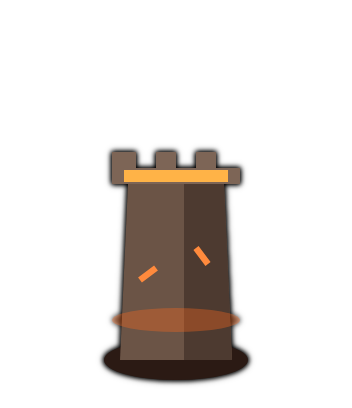
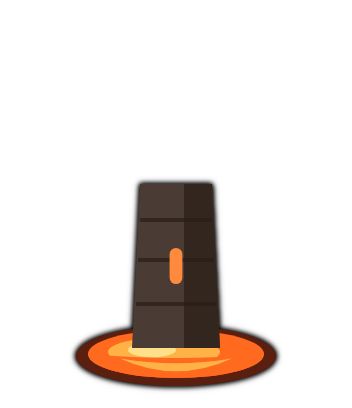
Lavaturm: Turm im Lavasee mit Lava-Zinnen (26s)
Claude-Session: https://claude.ai/code/session_012Nsno37nEjc4wateER8C5H

Changed region(s): [[0.1875, 0.3529, 0.8125, 0.9706]]

diff --git a/tools/turm/tuerme.html b/tools/turm/tuerme.html
@@ -46,7 +46,7 @@ f:[
 ['Flammenwerfer','Schaden','Düse mit Feuerstrahl, Tank auf dem Rücken',28,40,()=>`<ellipse cx="0" cy="-1.5" rx="15" ry="4" fill="#2a2218" opacity=".4"/><rect x="-13" y="-4" width="27" height="4" rx="1.5" fill="#5e5953"/><rect x="-12" y="-22" width="12" height="19" rx="5" fill="#a83232"/><rect x="-12" y="-22" width="12" height="4" rx="2" fill="#c94545"/><rect x="-12" y="-14" width="12" height="2.4" fill="#4a1010" opacity=".5"/><circle cx="-6" cy="-24" r="2" fill="#d9cba6"/><rect x="-2" y="-16" width="10" height="9" rx="3" fill="#4a4a4f"/><circle cx="2" cy="-11" r="2" fill="#ffb347"/><g data-p="0"><rect x="7" y="-15" width="9" height="6" rx="2" fill="#2c2c30"/><rect x="14" y="-16" width="3" height="8" rx="1" fill="#3a3a3f"/></g><g data-p="1"><path d="M17 -12 Q20 -17 24 -12 Q20 -8 17 -12Z" fill="#ff8a3d"/><path d="M18 -12 Q20 -14.5 22 -12 Q20 -10 18 -12Z" fill="#ffe08a"/></g>`],
 ['Brandpfeil','Luftabwehr','Holzbogen auf Dreibein, schießt brennende Pfeile',34,40,()=>`<ellipse cx="0" cy="-1.5" rx="14" ry="4" fill="#2a2218" opacity=".4"/><path d="M-10 -2 L0 -17 L10 -2" stroke="#6b4a2c" stroke-width="3.2" fill="none" stroke-linecap="round" stroke-linejoin="round"/><rect x="-2" y="-22" width="4" height="8" fill="#8a6238"/><circle cx="0" cy="-20" r="3" fill="#4d3520"/><g data-p="0"><path d="M2 -34 Q17 -21 2 -8" stroke="#8a6238" stroke-width="3.6" fill="none" stroke-linecap="round"/><path d="M2 -34 L-6 -21 L2 -8" stroke="#eee" stroke-width="1" fill="none"/><rect x="9" y="-24" width="3.4" height="6" rx="1" fill="#4d3520"/></g><g data-p="1"><rect x="-6" y="-21.9" width="22" height="1.8" fill="#c9a26a"/><path d="M-6 -21 L-10 -24 L-8 -21 L-10 -18Z" fill="#ddd"/><path d="M16 -24 L24 -21 L16 -18Z" fill="#c9c9cf"/><path d="M14 -21 Q16 -28 24 -26 Q22 -23 28 -21 Q22 -19 24 -16 Q16 -14 14 -21Z" fill="#ff8a3d"/><path d="M17 -21 Q19 -25 24 -21 Q19 -17 17 -21Z" fill="#ffe08a"/></g>`],
 ['Feuerteufel','Effekt','kleiner Teufel mit Dreizack',34,52,()=>`<path d="M-9 -4 Q-12 -22 0 -24 Q12 -22 9 -4Z" fill="#c8301a"/><circle cx="0" cy="-32" r="9" fill="#d83a22"/><path d="M-7 -37 L-12 -48 L-3 -40Z M7 -37 L12 -48 L3 -40Z" fill="#3d1410"/><g data-p="1"><path d="M-9 -34 Q-12 -46 -6 -48 Q-6 -40 -2 -39 Q0 -50 4 -49 Q3 -41 8 -40 Q12 -38 9 -34Z" fill="#ff8a3d" opacity=".9"/></g><path d="M-5 -33 l3 1.5 M5 -33 l-3 1.5" stroke="#ffe08a" stroke-width="2.2" stroke-linecap="round"/><path d="M-4 -26 Q0 -22 4 -26" stroke="#3d1410" stroke-width="1.8" fill="none"/><path d="M10 -6 Q22 -8 22 -20" stroke="#3d1410" stroke-width="2" fill="none"/><path d="M-9 -18 Q-20 -10 -16 -2" stroke="#3d1410" stroke-width="2" fill="none"/><g data-p="0"><rect x="-17.8" y="-40" width="2.4" height="38" fill="#4a3022"/><path d="M-22 -50 L-22 -40 L-10.6 -40 L-10.6 -50 M-16.6 -52 L-16.6 -40" stroke="#c9c9cf" stroke-width="2.2" fill="none" stroke-linecap="round"/></g>`],
-['Lavaturm','Fläche','Steinturm mit Zinnen, Lava läuft herab',56,56,()=>`<ellipse cx="0" cy="-2" rx="18" ry="5" fill="#2b1a14"/><path d="M-14 -2 L-12 -46 L12 -46 L14 -2Z" fill="#6b5446"/><path d="M2 -46 L12 -46 L14 -2 L2 -2Z" fill="#4d3a30"/><path d="M-16 -46 L-16 -54 L-10 -54 L-10 -50 L-5 -50 L-5 -54 L0 -54 L0 -50 L5 -50 L5 -54 L10 -54 L10 -50 L16 -50 L16 -46Z" fill="#7d6556"/><path d="M-13 -48 L13 -48" stroke="#ffb347" stroke-width="3"/><g data-p="0"><path d="M-6 -46 Q-8 -34 -4 -28 Q-2 -20 -5 -12" stroke="#ff6a1e" stroke-width="3.4" fill="none" stroke-linecap="round"/><path d="M5 -46 Q8 -36 4 -30 Q2 -22 6 -14" stroke="#ff6a1e" stroke-width="2.8" fill="none" stroke-linecap="round"/><circle cx="-5" cy="-11" r="2.6" fill="#ff8a3d"/><circle cx="6" cy="-13" r="2.2" fill="#ffb347"/></g><path d="M-9 -22 l4 -3 M8 -26 l-3 -4" stroke="#ff8a3d" stroke-width="1.6"/><ellipse cx="0" cy="-12" rx="16" ry="3" fill="#ff6a1e" opacity=".35"/><g data-p="1"><circle cx="-4" cy="-60" r="2.4" fill="#ff8a3d"/><circle cx="6" cy="-64" r="1.8" fill="#ffb347"/></g>`],
+['Lavaturm','Fläche','dunkler Turm mitten in einem Lavasee, Zinnen aus glühender Lava',56,56,()=>`<ellipse cx="0" cy="-3" rx="25" ry="7.5" fill="#5a1f0e"/><ellipse cx="0" cy="-3.5" rx="22" ry="6" fill="#ff6a1e"/><ellipse cx="-3" cy="-4" rx="14" ry="3.6" fill="#ffb347"/><ellipse cx="-6" cy="-4.5" rx="6" ry="1.8" fill="#ffe08a"/><path d="M-11 -5 L-9 -46 L9 -46 L11 -5Z" fill="#4a3b34"/><path d="M2 -46 L9 -46 L11 -5 L2 -5Z" fill="#33261f"/><path d="M-10 -16 L10 -16 M-9.5 -27 L9.5 -27 M-9 -37 L9 -37" stroke="#2a1d18" stroke-width="1" opacity=".7"/><rect x="-1.6" y="-30" width="3.2" height="9" rx="1.6" fill="#ff8a3d"/><path d="M-22 -3.5 A22 6 0 0 0 22 -3.5 Q0 -1.5 -22 -3.5Z" fill="#ff6a1e"/><path d="M-14 -2.4 Q0 4 14 -2.4 Q0 0 -14 -2.4Z" fill="#ffb347"/><g data-p="0"><rect x="-15" y="-48" width="30" height="4" fill="#b8340f"/><path d="M-15 -48 L-15 -58 L-9 -58 L-9 -53 L-3 -53 L-3 -58 L3 -58 L3 -53 L9 -53 L9 -58 L15 -58 L15 -48Z" fill="#ff6a1e"/><path d="M-15 -48 L-15 -58 L-9 -58 L-9 -53 L-3 -53 L-3 -58 L3 -58 L3 -53 L9 -53 L9 -58 L15 -58 L15 -48Z" fill="none" stroke="#7a2a0c" stroke-width="1.2" stroke-linejoin="round"/><path d="M-13 -50 L-11 -50 M-1 -50 L1 -50 M11 -50 L13 -50 M-13 -56 L-11 -56 M-1 -56 L1 -56 M11 -56 L13 -56" stroke="#ffe08a" stroke-width="2" stroke-linecap="round"/><path d="M-8 -44 Q-9 -40 -7.5 -36" stroke="#ff6a1e" stroke-width="2.6" fill="none" stroke-linecap="round"/><path d="M6 -44 Q7 -41 6 -38" stroke="#ff8a3d" stroke-width="2.2" fill="none" stroke-linecap="round"/></g><g data-p="1"><circle cx="-4" cy="-64" r="1.8" fill="#ff8a3d"/><circle cx="5" cy="-68" r="1.5" fill="#ffb347"/><circle cx="1" cy="-61" r="1.2" fill="#ffe08a"/></g>`],
 ['Sonnenturm','Schaden','Sonnenscheibe mit Strahlen',46,52,()=>{let r='';for(let i=0;i<12;i++){const a=i*Math.PI/6;r+=`<line x1="${Math.cos(a)*14}" y1="${-30+Math.sin(a)*14}" x2="${Math.cos(a)*22}" y2="${-30+Math.sin(a)*22}" stroke="#ffd27a" stroke-width="3" stroke-linecap="round"/>`}return `<rect x="-3" y="-20" width="6" height="18" fill="#6b4a2c"/><g data-p="0">${r}<circle cx="0" cy="-30" r="12" fill="#ffb347"/><circle cx="0" cy="-30" r="8" fill="#ffe08a"/></g>`}],
 ['Höllenfeuer','Effekt','Hörner und Höllenflamme',58,60,()=>`<path d="M-20 -2 Q-26 -18 -16 -30 Q-18 -14 -10 -6Z" fill="#2b1a14"/><path d="M20 -2 Q26 -18 16 -30 Q18 -14 10 -6Z" fill="#2b1a14"/><ellipse cx="0" cy="-3" rx="14" ry="5" fill="#2b1a14"/><g data-p="0"><path d="M-12 -4 Q-18 -24 -4 -38 Q-4 -26 4 -22 Q6 -34 12 -42 Q20 -22 12 -4Z" fill="#d83a14"/><path d="M-6 -4 Q-9 -18 0 -26 Q2 -16 7 -12 Q9 -6 6 -4Z" fill="#ff8a3d"/><path d="M-2 -4 Q-3 -12 1 -17 Q3 -10 3 -4Z" fill="#ffe08a"/></g>`]],
 e:[

diff --git a/index.html b/index.html
@@ -222,7 +222,7 @@ const FIREBASE_CONFIG = {
   appId: "1:45840879921:web:f4f4f8bb60e49a091ae010"
 };
 const GAME_ID = "spiel1";   // anderer Name = eigenes, getrenntes Spiel
-const VERSION = "2026-10-26r";  // bei JEDER Änderung hochzählen: alte Handys merken so, dass sie neu laden müssen
+const VERSION = "2026-10-26s";  // bei JEDER Änderung hochzählen: alte Handys merken so, dass sie neu laden müssen
 
 /* =====================================================================
    SPIELDATEN – Regeln und Zahlen. Alles hier darf geändert werden.
@@ -1895,7 +1895,7 @@ function drawTower(c, tw, px, py, cs, aim, glow, noBody){
 }
 const TIMG = {};   // 26.10. (F): freistehende Turm-Bilder der Schräg-Ansicht, assets/turm/<element>-<nr>.png (88×102-Raster, Fußpunkt bei y=92), Entwürfe/Quelle: team/GRAFIK.md
 const TOWER_NAME = ['feuer', 'eis', 'schatten', 'stein'];
-const TOWER_H = { feuer:[22,42,26,34,52,65.8,52,42], eis:[26,34.5,66.4,57,39.9,58.2,48,66], schatten:[26,44,39,44,26.6,49,48,60], stein:[48,30,58,62,22,70,33,88] };   // Höhe der Zeichnung über dem Fuß (Raster-Einheiten)
+const TOWER_H = { feuer:[22,42,26,34,52,69.5,52,42], eis:[26,34.5,66.4,57,39.9,58.2,48,66], schatten:[26,44,39,44,26.6,49,48,60], stein:[48,30,58,62,22,70,33,88] };   // Höhe der Zeichnung über dem Fuß (Raster-Einheiten)
 function loadImg(k){   // bei Ladefehler bis zu 3 Wiederholungen (Handy-Netz)
   if (k in TIMG) return TIMG[k] && TIMG[k].complete && TIMG[k].naturalWidth ? TIMG[k] : null;
   const im = new Image(); im.onerror = () => { TIMG[k] = null; loadImg.n[k] = (loadImg.n[k] || 0) + 1; if (loadImg.n[k] < 4) setTimeout(() => { delete TIMG[k]; loadImg(k); }, 1500*loadImg.n[k]); }; im.onload = () => { if (!view25 || typeof drawAll !== 'function') return; drawAll(); clearTimeout(towerImg.t); towerImg.t = setTimeout(() => { if (G && typeof render === 'function') render(); }, 80); }; im.src = 'assets/turm/' + k + '.png'; TIMG[k] = im; return null;
@@ -1921,7 +1921,7 @@ const PARTS = (() => {
              [0, -20, (t, g, w, dx, dy) => { const p = 1 - g; return { r: Math.max(-.9, Math.min(.9, Math.atan2(dy, Math.abs(dx)))), x: p < .2 ? 60*(p/.2) : 0, a: p < .2 ? 1 : p < .55 ? 0 : Math.min(1, (p - .55)/.25) }; }]],   // Pfeil fliegt vorn über den Bogen ab, neuer wird aufgelegt
     feuer4: [[-16.6, -26, (t, g, w, dx, dy) => { const p = 1 - g, ph = Math.atan2(dy, -Math.abs(dx)), rA = ph + PI/2 > PI ? ph + PI/2 - 2*PI : ph + PI/2;   // Dreizack: dreht sich zum Ziel, wird geworfen, neuer erscheint
         return g <= 0 ? { r: .04*S(t*2) } : p < .1 ? { r: rA*(p/.1) } : { r: 0, a: p < .6 ? 0 : Math.min(1, (p - .6)/.25) }; }], [0, -34, (t, g) => ({ sy: 1 + .15*S(t*10) + .4*g, r: .1*S(t*8) })]],
-    feuer5: [[0, -46, (t, g) => ({ sy: 1 + .07*S(t*6) + .25*g, sx: 1 + .04*S(t*5) })], [0, -60, (t, g, w) => ({ y: -3*S(t*4) - 8*w, ...sc(1 + .2*g) })]],
+    feuer5: [[0, -48, (t, g) => ({ sy: 1 + .03*S(t*4) + .1*g, sx: 1 + .02*S(t*5) + .05*g })], [0, -62, (t, g, w) => ({ y: -2*S(t*4) - 9*w, ...sc(1 + .2*g), a: Math.min(1, .75 + .25*S(t*6) + .25*g) })]],
     feuer6: [[0, -30, (t, g, w) => ({ r: t*.5 + 1.6*w, ...sc(1 + .12*g) })]],
     feuer7: [[0, -4, (t, g) => ({ sy: 1 + .08*S(t*7) + .3*g, sx: 1 + .05*S(t*9 + 1) + .1*g })]],
     eis0: [[0, -4, (t, g, w, dx) => ({ y: -2*S(t*3) - 3*w, x: dx*2*w, r: .04*S(t*2) })]],

diff --git a/team/UPDATES.md b/team/UPDATES.md
@@ -4,6 +4,9 @@
 Überschrift: drei Rauten, Datum Uhrzeit · L oder F · VERSION – Titel; darunter höchstens 5 Zeilen: was, warum, worauf achten.
 Mehr als 15 Einträge → die ältesten oben in team/archiv/updates-archiv.md einfügen. -->
 <!-- NEUE EINTRÄGE HIER -->
+### 26.10. 17:55 · F · 2026-10-26s – Lavaturm: Turm im Lavasee mit Lava-Zinnen
+Lavaturm neu gezeichnet: dunkler Steinturm mitten in einem Lavasee, oben Zinnen aus glühender Lava, nur zwei kurze Rinnsale. Teilbilder: Zinnen (pulsieren), Funken (steigen beim Schuss). `TOWER_H` feuer[5] = 69,5. Nur Anzeige.
+
 ### 26.10. 17:40 · F · 2026-10-26r – Feuerteufel wirft brennenden Dreizack
 Der Feuerteufel dreht sich zum Ziel (Dreizack-Seite zeigt zum Monster), der Dreizack dreht sich zum Ziel und verschwindet beim Wurf, ein neuer erscheint nach kurzer Zeit. Geschoss (`shot25`, Feuer Nr. 5): brennender Dreizack mit Flammenschweif, startet in der Hand. Nur Anzeige.
 
@@ -45,6 +48,3 @@ In der Schräg-Ansicht zeigen Bauleiste und Dialoge (`towerIcon`) das zugeschnit
 
 ### 26.10. 11:30 · F · 2026-10-26e – Biome: Sumpf mit Bäumen, Felsen als große Felsbrocken
 Sumpf: statt kleiner Büsche dunkelgrüne Sumpfbäume (in der Schräg-Ansicht aufrecht, nach Tiefe sortiert). Felsen: statt Berg mit Schneekappe zwei große Felsbrocken (`drawMountain`, beide Ansichten). Regeln und Gold unverändert (Felsen +30, Reichweite +15 %).
-
-### 26.10. 11:00 · F · 2026-10-26d – Türme aller Elemente als freie Bilder, vier Umbenennungen
-Schräg-Ansicht: alle 32 Türme als freistehende Bilder (`assets/turm/<element>-<nr>.png`, `towerImg`, `TOWER_H`). Quelle/Entwürfe: `tools/turm/tuerme.html`, Bilder neu erzeugen mit `node tools/turm/bilder.js tools/turm/tuerme.html` (aus dem Repo-Wurzelordner, Playwright nötig). **Umbenannt (nur Anzeige, Zahlen unverändert):** Glutbecken → Glumanda, Schwelbrand → Feuerteufel, Frosthauch → Schneekönig, Felsbrocken → Onyx. `spiegel.html` und die Balancing-Skripte (`basis/`) behalten die alten Namen. Draufsicht unverändert.

diff --git a/team/archiv/updates-archiv.md b/team/archiv/updates-archiv.md
@@ -1,6 +1,10 @@
 # Archiv: ältere Updates (neueste oben)
 
 
+### 26.10. 11:00 · F · 2026-10-26d – Türme aller Elemente als freie Bilder, vier Umbenennungen
+Schräg-Ansicht: alle 32 Türme als freistehende Bilder (`assets/turm/<element>-<nr>.png`, `towerImg`, `TOWER_H`). Quelle/Entwürfe: `tools/turm/tuerme.html`, Bilder neu erzeugen mit `node tools/turm/bilder.js tools/turm/tuerme.html` (aus dem Repo-Wurzelordner, Playwright nötig). **Umbenannt (nur Anzeige, Zahlen unverändert):** Glutbecken → Glumanda, Schwelbrand → Feuerteufel, Frosthauch → Schneekönig, Felsbrocken → Onyx. `spiegel.html` und die Balancing-Skripte (`basis/`) behalten die alten Namen. Draufsicht unverändert.
+
+
 ### 26.10. 10:20 · F · 2026-10-26c – Schatten-Türme als freie Bilder (Schräg-Ansicht)
 In der Schräg-Ansicht stehen die 8 Schatten-Türme ohne Sockel als Bilder (`assets/turm/schatten-1..8.png`, `towerImg`, `drawTower25`); Zahl, Edelstein und Stufen liegen flach auf dem Feld. Entwürfe für Feuer/Eis/Stein sind noch in Überarbeitung (F), bis dahin Block-Türme. Draufsicht unverändert. Nur Anzeige.
 
